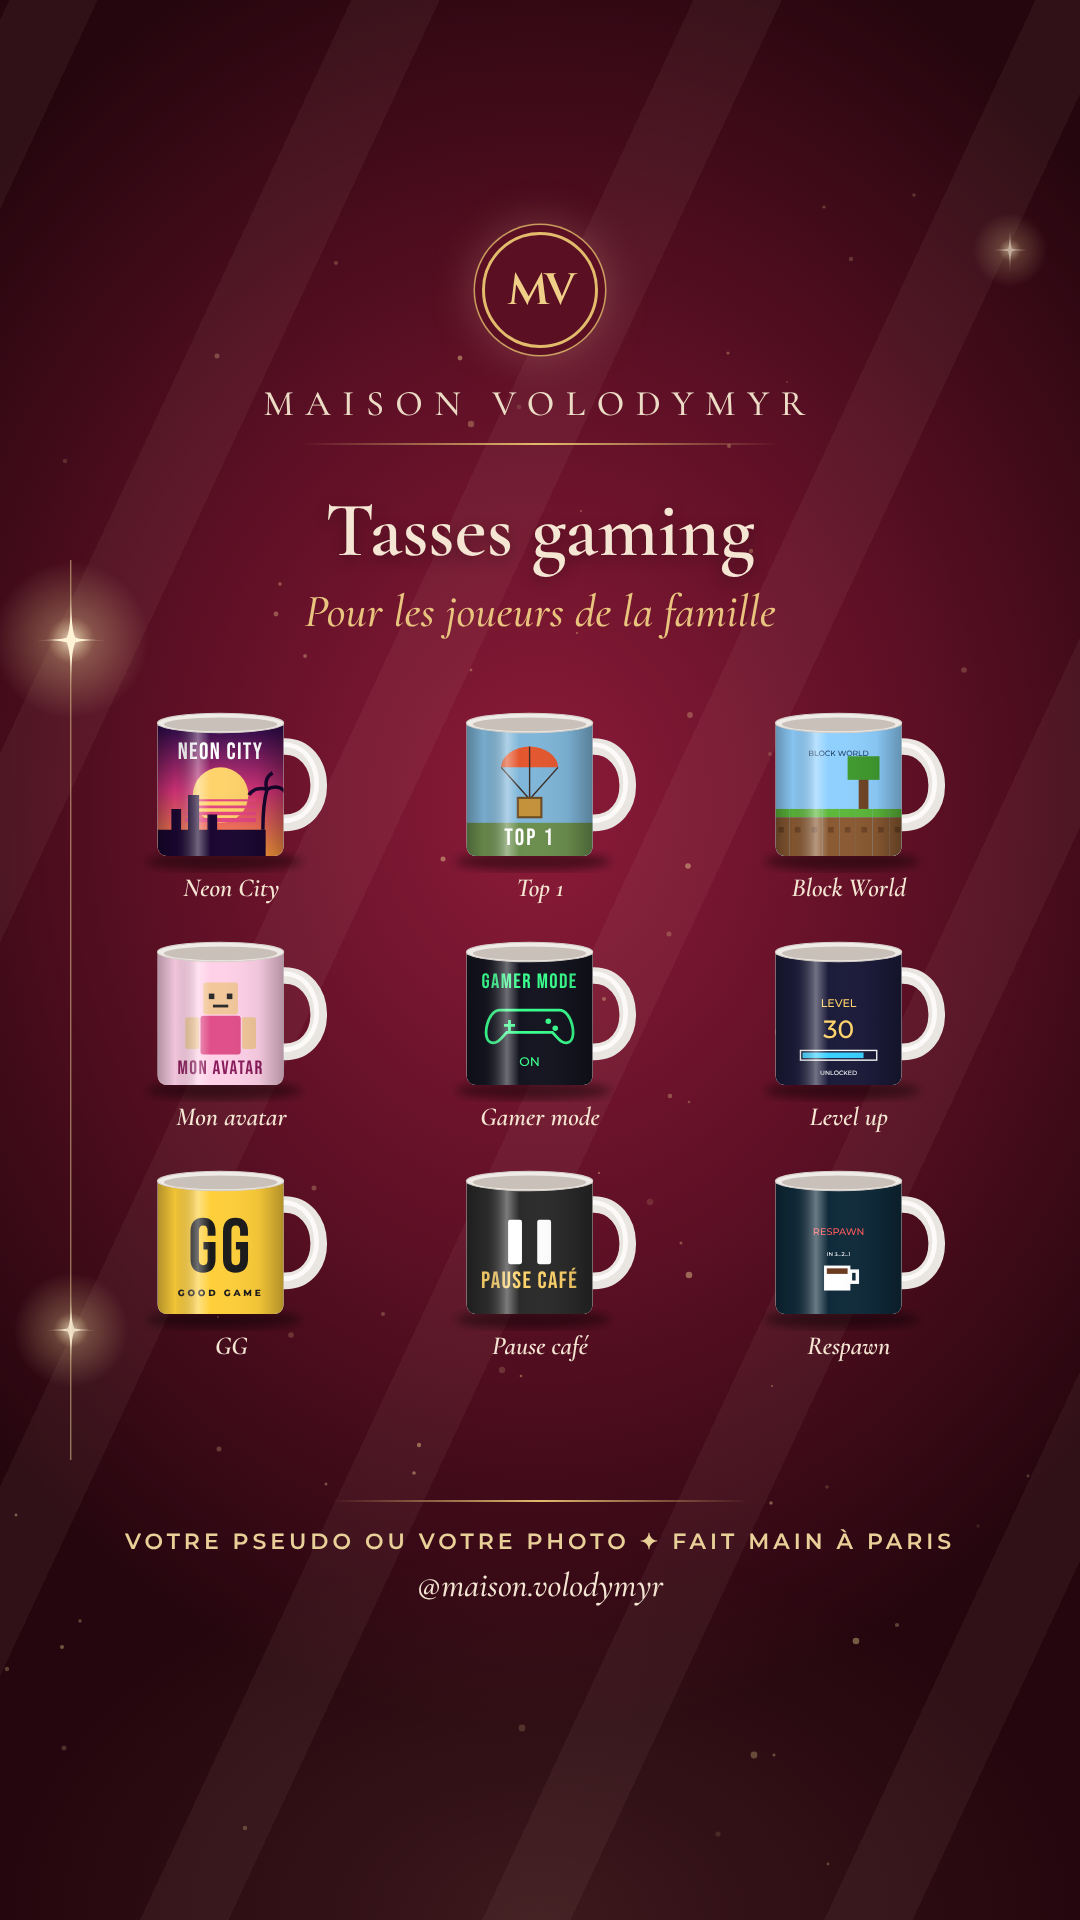
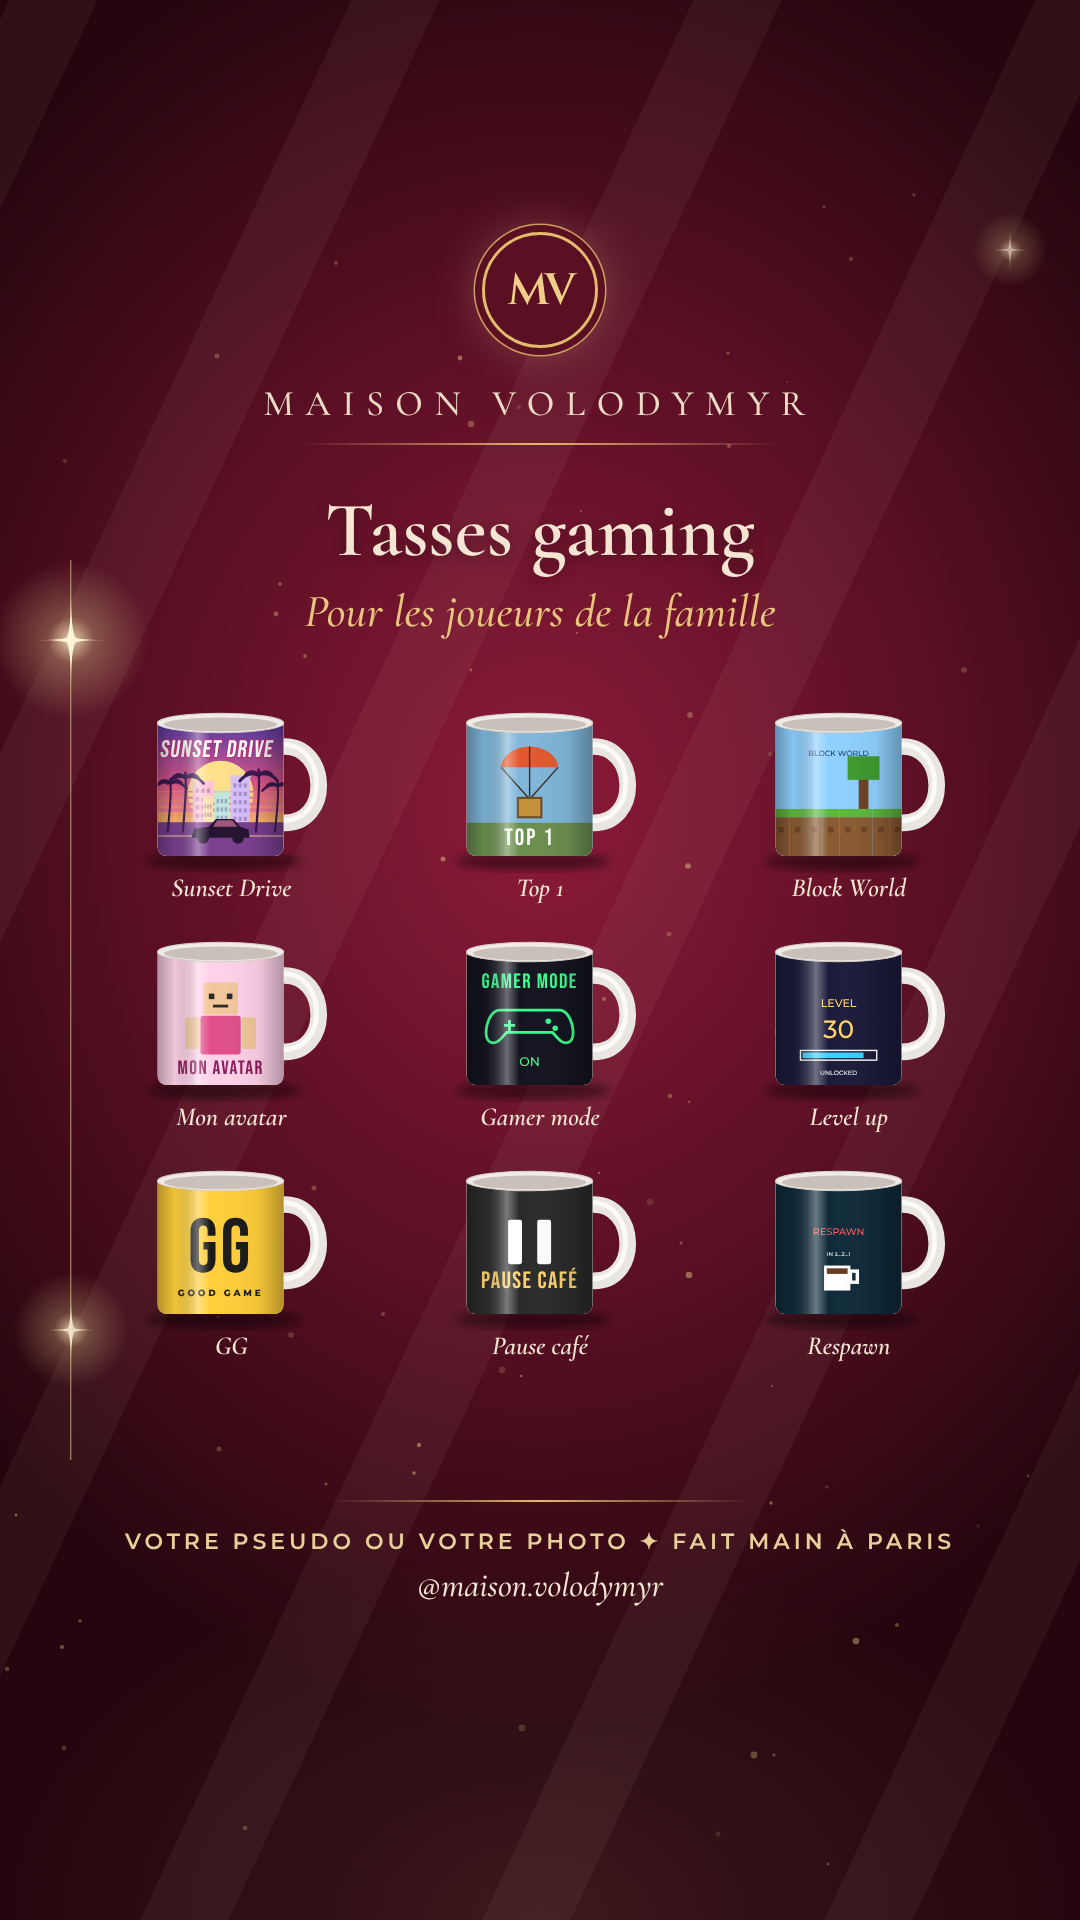
Add original Sunset Drive mug (hero story + gaming catalogue)
Claude-Session: https://claude.ai/code/session_01NVYZfQU8cBxnfbyUcCNFxq

Changed region(s): [[0.1222, 0.375, 0.275, 0.4688]]

diff --git a/instagram/generate_pack.js b/instagram/generate_pack.js
@@ -89,8 +89,21 @@ const PROCHES=[
  ['Toi & moi',HEART(70,40,1.4,'#d23a4f')+HEART(110,48,1.1,'#e98092')+T(91,124,'Toi & moi','Dancing Script',44,'#8a1a36','font-weight="700"')+T(91,152,'DEPUIS 2019','Montserrat',13,'#8a1a36','font-weight="700" letter-spacing="3"')],
  ['Votre photo',`<rect x="22" y="18" width="138" height="150" rx="6" fill="#d9c9b8"/><rect x="22" y="18" width="138" height="150" rx="6" fill="url(#fam)"/><defs><linearGradient id="fam" x1="0" y1="0" x2="0" y2="1"><stop offset="0" stop-color="#f3d9b8"/><stop offset="1" stop-color="#c98e6a"/></linearGradient></defs><g fill="#7a4a3a"><circle cx="62" cy="80" r="15"/><circle cx="104" cy="74" r="17"/><circle cx="84" cy="104" r="11"/><path d="M40 168c0-40 44-52 44-52s46 10 46 52z"/></g>`]
 ];
+
+// original "Sunset Drive" artwork (road-trip sunset, no third-party marks)
+let SID=0;
+function SUNSET(w,h,label=true){const k='sd'+(SID++),v=h/188,S=(x)=>x*v,Y=(y)=>y*v,wide=w/h>1.5;
+ const palms=(wide?[[0.05,0.9],[0.14,1.05],[0.24,0.8],[0.76,0.85],[0.86,1.05],[0.95,0.9]]:[[0.08,0.9],[0.2,1],[0.78,1.05],[0.93,0.85]]).map(([px,sc])=>{const x=w*px,b=h*0.82,t=b-h*0.42*sc;return `<path d="M${x} ${b} C${x+S(3)} ${b-h*0.2*sc} ${x+S(6)} ${t+h*0.08} ${x+S(4)} ${t}" stroke="#3a1a52" stroke-width="${S(3.2)*sc}" fill="none"/>`+[[-1,0],[1,0],[-0.7,-0.6],[0.7,-0.6],[0,-0.9]].map(([dx,dy])=>`<path d="M${x+S(4)} ${t} q${S(14)*dx*sc} ${Y(-6+dy*6)*sc} ${S(26)*dx*sc} ${Y(8+dy*14)*sc}" stroke="#3a1a52" stroke-width="${S(4)*sc}" fill="none" stroke-linecap="round"/>`).join('')}).join('');
+ const bld=(wide?[[0.30,0.30,0.16,'#ffc2d6'],[0.39,0.20,0.12,'#ffe1b3'],[0.47,0.24,0.12,'#bde8e0'],[0.55,0.34,0.15,'#d9c2ff'],[0.64,0.22,0.12,'#ffc2d6']]:[[0.28,0.30,0.16,'#ffc2d6'],[0.45,0.22,0.12,'#bde8e0'],[0.58,0.34,0.15,'#d9c2ff'],[0.36,0.18,0.08,'#ffe1b3']]).map(([x,hh,ww,c])=>{const W=wide?h*ww*1.1:w*ww,X=wide?w*x-W/2:w*x,H=h*hh,B=h*0.74;let win='';for(let i=0;i<3;i++)for(let j=0;j<Math.max(2,Math.round(H/Y(14)));j++)win+=`<rect x="${X+W*(0.15+i*0.27)}" y="${B-H+Y(8)+j*Y(12)}" width="${W*0.16}" height="${Y(6)}" fill="rgba(90,50,120,.35)"/>`;return `<rect x="${X}" y="${B-H}" width="${W}" height="${H}" fill="${c}"/><rect x="${X-S(2)}" y="${B-H-Y(4)}" width="${W+S(4)}" height="${Y(4)}" fill="${c}" opacity=".85"/>`+win}).join('');
+ const cy=h*0.86,cx=w*0.5,cw=Math.min(w*0.46,h*0.95);
+ const car=`<g fill="#24122f"><path d="M${cx-cw/2} ${cy} l${cw*0.04} ${-h*0.07} l${cw*0.26} ${-h*0.015} l${cw*0.12} ${-h*0.06} l${cw*0.3} 0 l${cw*0.12} ${h*0.06} l${cw*0.14} ${h*0.02} l${cw*0.02} ${h*0.065}z"/><circle cx="${cx-cw*0.3}" cy="${cy}" r="${h*0.045}"/><circle cx="${cx+cw*0.3}" cy="${cy}" r="${h*0.045}"/></g><path d="M${cx-cw*0.06} ${cy-h*0.135} l${cw*0.26} 0 l${cw*0.09} ${h*0.05} l${-cw*0.42} 0z" fill="#ff8fb8" opacity=".55"/>`;
+ return `<defs><linearGradient id="${k}" x1="0" y1="0" x2="0" y2="1"><stop offset="0" stop-color="#5b3aa0"/><stop offset=".45" stop-color="#e2578b"/><stop offset=".72" stop-color="#ffb36b"/><stop offset="1" stop-color="#ffd59a"/></linearGradient></defs>
+<rect width="${w}" height="${h}" fill="url(#${k})"/><circle cx="${w*0.5}" cy="${h*0.52}" r="${Math.min(w,h)*(wide?0.3:0.26)}" fill="#ffe08a"/>${[0,1,2,3].map(i=>`<rect x="0" y="${h*(0.5+i*0.045)}" width="${w}" height="${h*(0.012+i*0.004)}" fill="#f2759e"/>`).join('')}
+${bld}<rect y="${h*0.74}" width="${w}" height="${h*0.26}" fill="#7a3f8f"/><rect y="${h*0.84}" width="${w}" height="${h*0.012}" fill="#ffd59a" opacity=".6"/>${palms}${car}
+${label?`<text x="${w*0.5}" y="${h*0.24}" text-anchor="middle" font-family="Bebas Neue" font-size="${Math.min(w*0.19,h*0.2)}" fill="#fff" letter-spacing="${S(1.5)}" transform="skewX(-8)" style="paint-order:stroke" stroke="#c2286a" stroke-width="${S(2.2)}">SUNSET DRIVE</text>`:''}`}
+
 const GAMING=[
- ['Neon City',`<defs><linearGradient id="nc" x1="0" y1="0" x2="0" y2="1"><stop offset="0" stop-color="#2a0a4a"/><stop offset=".5" stop-color="#d6337a"/><stop offset="1" stop-color="#ff9a3c"/></linearGradient></defs><rect width="182" height="188" fill="url(#nc)"/><circle cx="91" cy="100" r="40" fill="#ffd36b"/>${[0,1,2,3].map(i=>`<rect x="40" y="${106+i*9}" width="102" height="${3+i}" fill="#e2457f"/>`).join('')}<path d="M0 150h20v-30h14v30h10v-50h16v50h12v-22h14v22h70v38H0z" fill="#1a0630"/><path d="M152 150c0-30 2-44 6-58M158 92c-10-4-22 0-26 8M158 92c10-6 22-4 26 4M158 92c-4-10 0-20 8-24" stroke="#1a0630" stroke-width="5" fill="none"/>`+T(91,48,'NEON CITY','Bebas Neue',34,'#fff','letter-spacing="2"')],
+ ['Sunset Drive',SUNSET(182,188)],
  ['Top 1',`<rect width="182" height="188" fill="#7fb6d9"/><rect y="140" width="182" height="48" fill="#6b8f4e"/><path d="M50 60a41 30 0 0 1 82 0z" fill="#e4572e"/><path d="M50 60l41 46M132 60l-41 46M91 30v76" stroke="#3a2a22" stroke-width="2"/><rect x="74" y="104" width="34" height="28" fill="#c4913a" stroke="#6a4a22" stroke-width="3"/>`+T(91,172,'TOP 1','Bebas Neue',34,'#fff','letter-spacing="3"')],
  ['Block World',`<rect width="182" height="188" fill="#8fd0ff"/>${Array.from({length:8},(_,i)=>`<rect x="${i*24-4}" y="120" width="24" height="12" fill="#5cb83a"/><rect x="${i*24-4}" y="132" width="24" height="56" fill="#8a5a32"/><rect x="${i*24+4}" y="146" width="8" height="8" fill="#6e4424"/>`).join('')}<rect x="120" y="70" width="14" height="50" fill="#6e4424"/><rect x="104" y="44" width="46" height="34" fill="#3f9a2e"/>`+T(91,44,'BLOCK WORLD','Press Start 2P',11,'#1a3a5c')],
  ['Mon avatar',`<rect width="182" height="188" fill="#ffd1e8"/><rect x="66" y="40" width="50" height="46" rx="4" fill="#f2c79a"/><rect x="74" y="56" width="8" height="8" fill="#2a2a2a"/><rect x="100" y="56" width="8" height="8" fill="#2a2a2a"/><rect x="80" y="72" width="22" height="4" fill="#2a2a2a"/><rect x="62" y="88" width="58" height="56" rx="4" fill="#e04f8a"/><rect x="40" y="90" width="20" height="46" rx="3" fill="#f2c79a"/><rect x="122" y="90" width="20" height="46" rx="3" fill="#f2c79a"/>`+T(91,172,'MON AVATAR','Bebas Neue',28,'#8a1a5a','letter-spacing="2"')],
@@ -113,6 +126,8 @@ const HUMOUR=[
 ];
 const catalogue=(items,o)=>page(`<div style="position:absolute;top:680px;left:80px;right:80px;display:grid;grid-template-columns:repeat(3,1fr);gap:6px 6px">
 ${items.map(([n,d])=>`<div style="text-align:center">${mug(d,208)}<div style="font:italic 600 26px 'Cormorant Garamond',serif;color:#f4e6d3;margin-top:-6px">${n}</div></div>`).join('')}</div>`,o);
+const heroSunset=page(`<div style="position:absolute;top:690px;left:100px;right:100px;height:300px;border-radius:22px;overflow:hidden;border:2.5px solid #e2bb6c;box-shadow:0 18px 40px rgba(0,0,0,.45)"><svg viewBox="0 0 880 300" width="880" height="300">${SUNSET(880,300)}</svg></div>
+<div style="position:absolute;top:1015px;left:0;right:0;display:flex;justify-content:center">${mug(SUNSET(182,188),500)}</div>`,{title:'Tasse Sunset Drive',sub:'L’esprit road trip au coucher du soleil',f1:'VOTRE PSEUDO OU VOTRE PHOTO  ✦  FAIT MAIN À PARIS'});
 (async()=>{require('fs').mkdirSync(OUT,{recursive:true});const b=await chromium.launch();const p=await b.newPage({viewport:{width:1080,height:1920}});
  const shot=async(html,f,vp)=>{if(vp)await p.setViewportSize(vp);await p.setContent(html,{waitUntil:'networkidle'});await p.evaluate(()=>document.fonts.ready);await p.screenshot({path:OUT+f})};
  await shot(avatar,'avatar_MV.png',{width:1080,height:1080});
@@ -121,4 +136,5 @@ ${items.map(([n,d])=>`<div style="text-align:center">${mug(d,208)}<div style="fo
  await shot(catalogue(PROCHES,{title:'Tasses pour vos proches',sub:'Un mot doux pour chaque jour',f1:'VOTRE TEXTE OU VOTRE PHOTO  ✦  FAIT MAIN À PARIS'}),'tasses_proches.png');
  await shot(catalogue(GAMING,{title:'Tasses gaming',sub:'Pour les joueurs de la famille',f1:'VOTRE PSEUDO OU VOTRE PHOTO  ✦  FAIT MAIN À PARIS'}),'tasses_gaming.png');
  await shot(catalogue(HUMOUR,{title:'Tasses avec humour',sub:'Le café, mais avec le sourire',f1:'VOTRE PHRASE OU VOTRE PHOTO  ✦  FAIT MAIN À PARIS'}),'tasses_humour.png');
+ await shot(heroSunset,'tasse_sunset_drive.png');
  await b.close()})();
